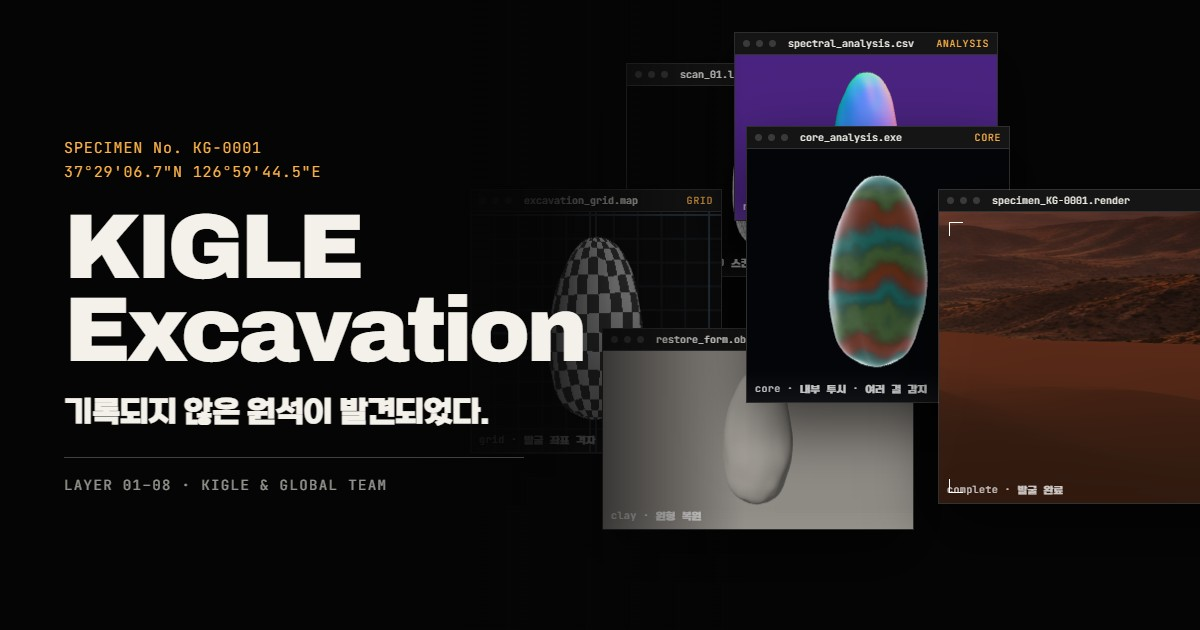
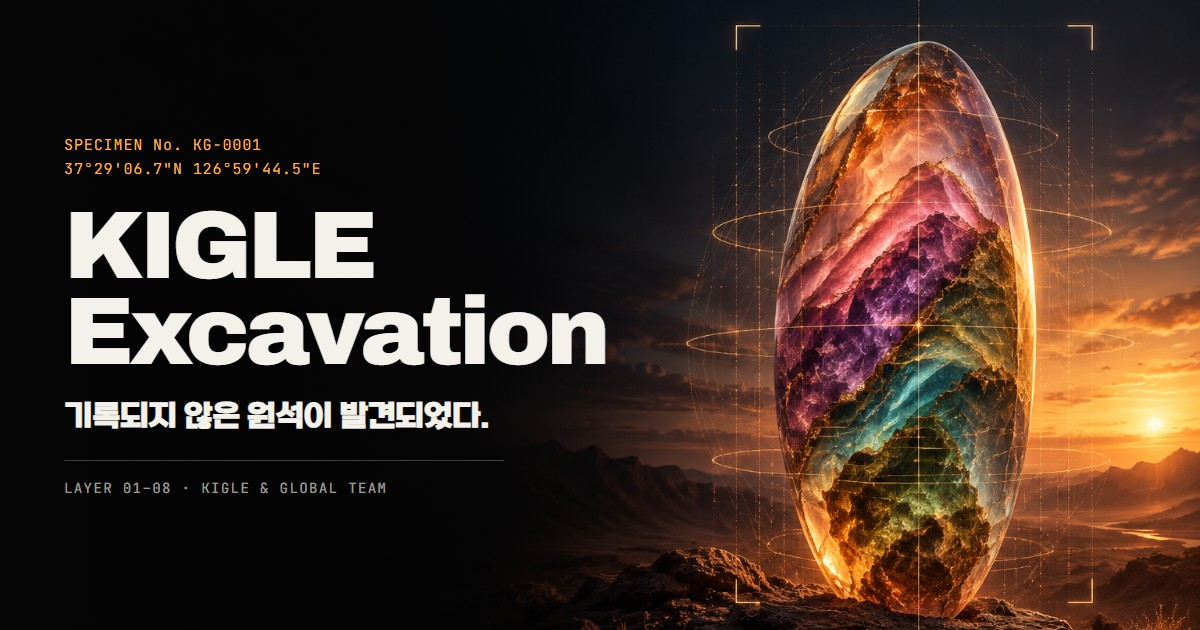
OG 이미지를 생성 이미지로 교체하고 파비콘 추가
- assets/og-bg.png: 이미지 모델로 만든 원석 키 비주얼 (글자 없음)
- og-image.jpg: 위 배경에 제목·좌표·문구를 얹어 1200×630으로 다시 제작
- assets/favicon-src.png → favicon.ico(16·32·48), favicon-32.png, apple-touch-icon.png, icon-512.png
- scripts/build-share-assets.mjs: OG 이미지·파비콘 생성 스크립트
- index.html: 파비콘 태그 추가

diff --git a/index.html b/index.html
@@ -6,6 +6,9 @@
   <title>KIGLE Excavation · 원석 발굴 기록</title>
   <meta name="description" content="기록되지 않은 원석이 발견되었다. 여덟 개의 층을 분석하며 만나는 KIGLE과 Global 팀 이야기.">
   <meta name="theme-color" content="#050505">
+  <link rel="icon" href="favicon.ico" sizes="any">
+  <link rel="icon" type="image/png" sizes="32x32" href="favicon-32.png">
+  <link rel="apple-touch-icon" href="apple-touch-icon.png">
 
   <!-- 링크 공유 미리보기 (카카오톡·슬랙·페이스북 등) -->
   <meta property="og:type" content="website">
